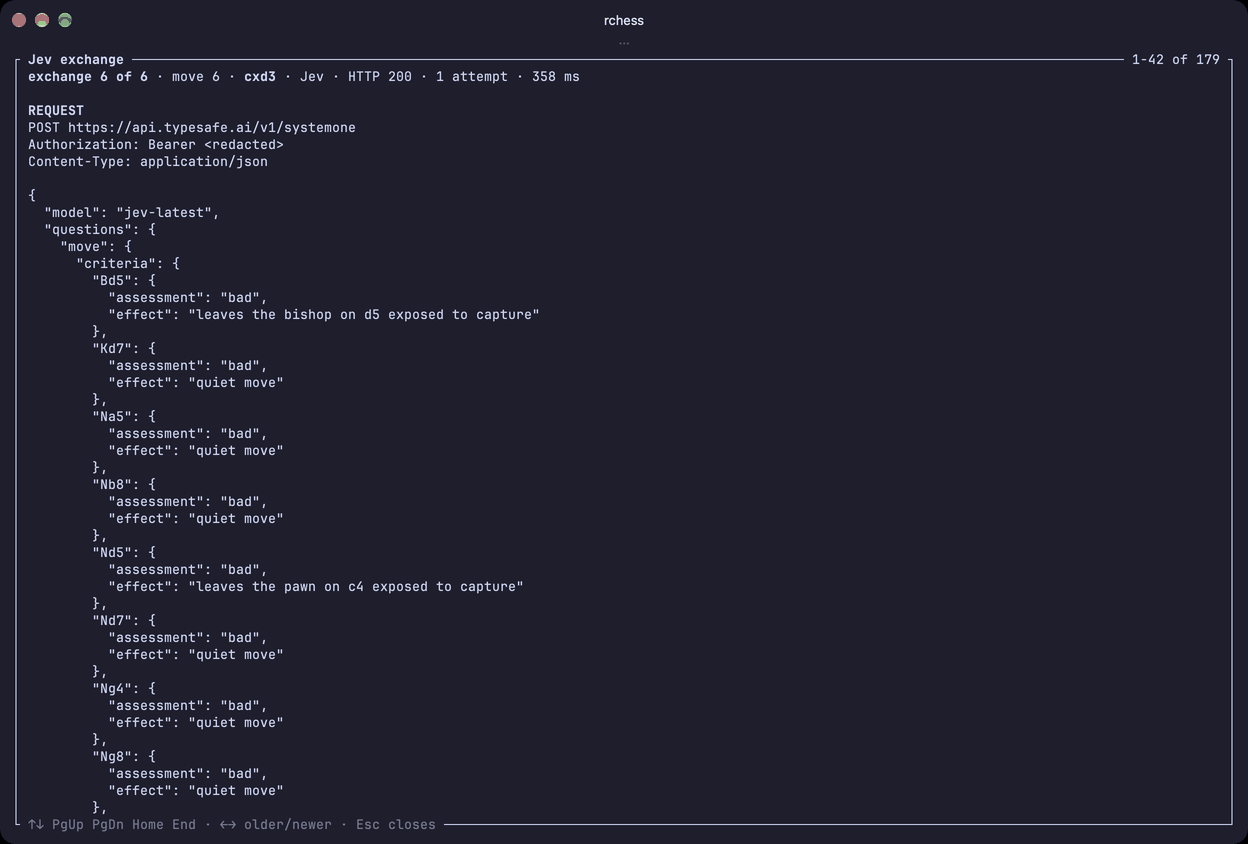
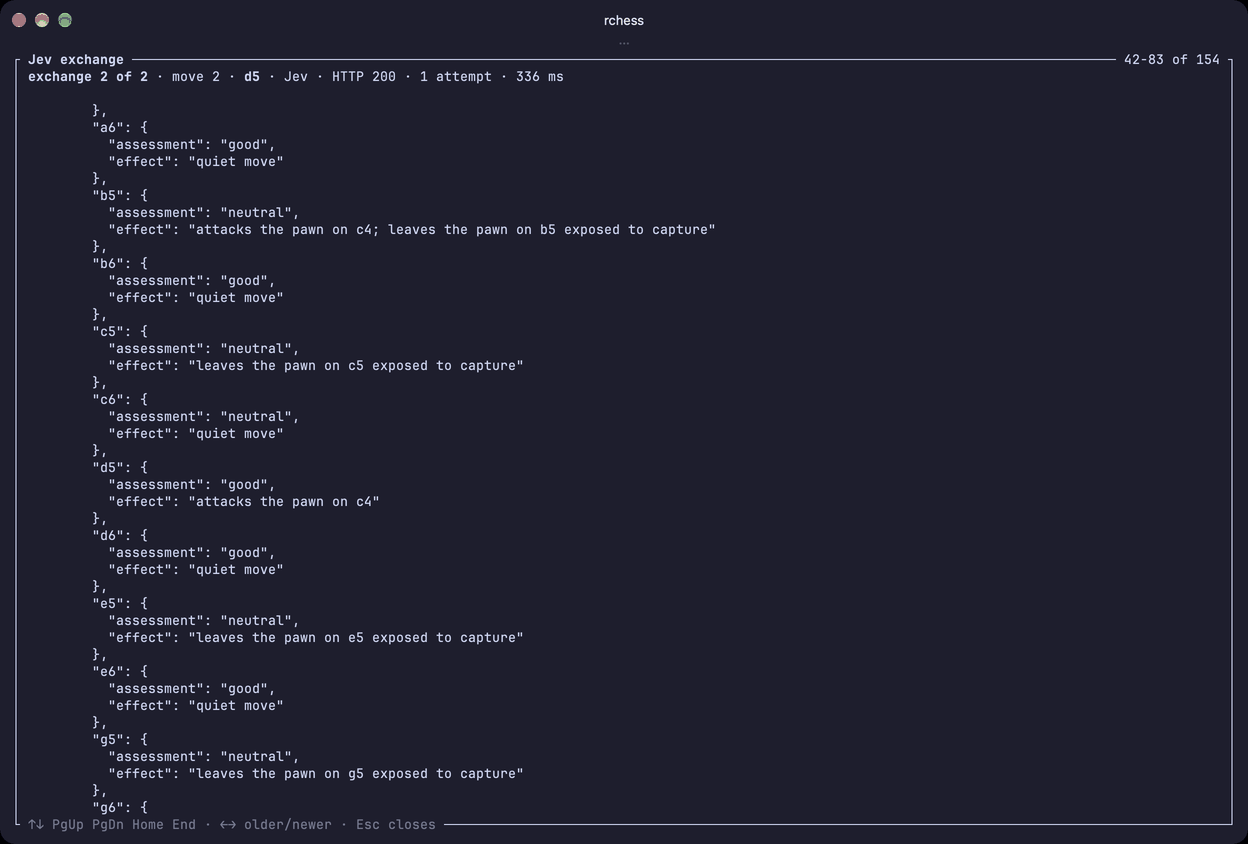
docs(readme): show a Jev request where the choice matters
Replace the cxd3 example, where the search had already decided, with the
position after 1. d4 Nf6 2. c4: twelve moves within 50 cp are all "good",
the local search alone would play Nc6, and Jev picks d5. Re-record the
board and exchange screenshots on that position, and explain when Jev's
answer changes the move and when it cannot.

diff --git a/README.md b/README.md
@@ -35,10 +35,10 @@ All captured from the release build running in Ghostty (150×44 cells).
 
 | | |
 | --- | --- |
-| ![Start menu with "Jev ready (jev-latest)"](docs/media/menu.png) | ![Board after 6. Bd3 cxd3: the Jev panel shows "played cxd3 · Jev", cxd3 100%, conf 0.99, 358 ms, jev-1.13.0](docs/media/play-vs-jev.png) |
-| **Menu.** The status line says whether Jev is ready or the computer will use local search. | **Human vs Jev.** The Jev panel shows where the move came from, Jev's top options with probabilities, confidence, latency and model. |
-| ![Debug exchange view: the request, with the Authorization header redacted and the move options with effect and assessment](docs/media/jev-request.png) | ![Debug exchange view: Jev's response with choice, confidence, a probability per option, model and token usage](docs/media/jev-response.png) |
-| **What Jev is asked** (`--debug`, then `d`). Every legal move comes with plain-language facts and an assessment. The API key is always shown as `<redacted>`. | **What Jev answers.** A choice, a probability for every option, a confidence and the input tokens billed. |
+| ![Start menu with "Jev ready (jev-latest)"](docs/media/menu.png) | ![Board after 1. d4 Nf6 2. c4 d5: the Jev panel shows "played d5 · Jev", d5 42%, Nc6 40%, e6 7%, conf 0.39, 336 ms, jev-1.13.0](docs/media/play-vs-jev.png) |
+| **Menu.** The status line says whether Jev is ready or the computer will use local search. | **Human vs Jev.** After `1. d4 Nf6 2. c4`, Jev chose `d5` over `Nc6` and `e6`. The Jev panel shows where the move came from, Jev's top options with probabilities, confidence, latency and model. |
+| ![Debug exchange view of that request: move options with effect and assessment, most of them good quiet moves](docs/media/jev-request.png) | ![Debug exchange view: Jev's response with choice, confidence, a probability per option, model and token usage](docs/media/jev-response.png) |
+| **What Jev is asked** (`--debug`, then `d`). Every shortlisted move comes with plain-language facts and an assessment; here twelve of them are `good`. The API key is always shown as `<redacted>`. | **What Jev answers.** A choice, a probability for every option, a confidence and the tokens billed. |
 
 **Jev vs Jev.** Watch mode plays both sides with a pause between moves (`+` and `-` change it,
 Space pauses). In this recording Jev settles into a knight-and-queen shuffle that ends in a
@@ -271,8 +271,25 @@ the move number, the phase (opening, middlegame, endgame), the material balance 
 we are in check, our pieces and theirs, the last six plies, and up to three of our pieces the
 opponent can win.
 
-This is the real request for Black's sixth move in the game from the screenshots, after
-`6. Bd3?` (26 options; most are cut here):
+### An example where Jev's choice matters
+
+After `1. d4 Nf6 2. c4`, Black has 22 legal moves. The search scores them like this (centipawns
+for Black, best first):
+
+| Score | Moves |
+| --- | --- |
+| +50 | `Nc6`, `d5` |
+| +40 | `d6`, `e6` |
+| +20 | `Rg8`, `a6`, `h6` |
+| +15 | `Na6`, `a5`, `h5` |
+| +5 | `b6`, `g6` |
+
+All twelve are within 50 cp of the best, so all twelve are `good`. A 3-ply search with a
+material and piece-square evaluation cannot really tell them apart: it rates `Rg8` and `h5`
+(moves no strong player would consider here) close to `d5` and `e6`, and it breaks the tie at
+the top by move-generation order. On its own, the local search would answer `Nc6`. This is the
+decision the app hands to Jev. The real request, from the game in the screenshots (`Nd5`, which
+loses the knight to `cxd5`, was rated `losing` and left off the shortlist):
 
 ```json
 {
@@ -285,31 +302,63 @@ This is the real request for Black's sixth move in the game from the screenshots
         "guidance": "Each option says what the move does and the engine's assessment: winning, good, neutral, bad or losing. Prefer winning and good moves. Among similar moves, prefer ones that remove threats against our pieces and keep our king safe."
       },
       "criteria": {
-        "Bd5":  { "assessment": "bad",     "effect": "leaves the bishop on d5 exposed to capture" },
-        "Nd5":  { "assessment": "bad",     "effect": "leaves the pawn on c4 exposed to capture" },
-        "Nxd4": { "assessment": "bad",     "effect": "captures the pawn on d4, loses material in the exchange" },
-        "cxd3": { "assessment": "winning", "effect": "captures the bishop on d3, wins material in the exchange" },
-        "g6":   { "assessment": "bad",     "effect": "quiet move" }
+        "Na6":  { "assessment": "good",     "effect": "quiet move" },
+        "Nc6":  { "assessment": "good",     "effect": "quiet move" },
+        "Ne4":  { "assessment": "neutral",  "effect": "quiet move" },
+        "Ng4":  { "assessment": "neutral",  "effect": "quiet move" },
+        "Ng8":  { "assessment": "neutral",  "effect": "quiet move" },
+        "Nh5":  { "assessment": "neutral",  "effect": "quiet move" },
+        "Rg8":  { "assessment": "good",     "effect": "quiet move" },
+        "a5":   { "assessment": "good",     "effect": "quiet move" },
+        "a6":   { "assessment": "good",     "effect": "quiet move" },
+        "b5":   { "assessment": "neutral",  "effect": "attacks the pawn on c4; leaves the pawn on b5 exposed to capture" },
+        "b6":   { "assessment": "good",     "effect": "quiet move" },
+        "c5":   { "assessment": "neutral",  "effect": "leaves the pawn on c5 exposed to capture" },
+        "c6":   { "assessment": "neutral",  "effect": "quiet move" },
+        "d5":   { "assessment": "good",     "effect": "attacks the pawn on c4" },
+        "d6":   { "assessment": "good",     "effect": "quiet move" },
+        "e5":   { "assessment": "neutral",  "effect": "leaves the pawn on e5 exposed to capture" },
+        "e6":   { "assessment": "good",     "effect": "quiet move" },
+        "g5":   { "assessment": "neutral",  "effect": "leaves the pawn on g5 exposed to capture" },
+        "g6":   { "assessment": "good",     "effect": "quiet move" },
+        "h5":   { "assessment": "good",     "effect": "quiet move" },
+        "h6":   { "assessment": "good",     "effect": "quiet move" }
       }
     }
   },
   "state": {
     "in_check": "no",
-    "material": "Black is ahead by about 1 pawn of material",
-    "move_number": 6,
-    "our_pieces": "King e8, Queen d8, Rooks a8 and h8, Bishops e6 and f8, Knights c6 and f6, Pawns c4 a7 b7 c7 e7 f7 g7 h7",
+    "material": "material is equal",
+    "move_number": 2,
+    "our_pieces": "King e8, Queen d8, Rooks a8 and h8, Bishops c8 and f8, Knights f6 and b8, Pawns a7 b7 c7 d7 e7 f7 g7 h7",
     "phase": "opening",
-    "recent_moves": "3... dxc4 4. Nf3 Nc6 5. e3 Be6 6. Bd3",
+    "recent_moves": "1. d4 Nf6 2. c4",
     "side_to_move": "Black",
-    "their_pieces": "King e1, Queen d1, Rooks a1 and h1, Bishops c1 and d3, Knights c3 and f3, Pawns a2 b2 f2 g2 h2 e3 d4",
+    "their_pieces": "King e1, Queen d1, Rooks a1 and h1, Bishops c1 and f1, Knights b1 and g1, Pawns a2 b2 e2 f2 g2 h2 c4 d4",
     "threats_against_us": []
   }
 }
 ```
 
-Jev answered `cxd3` with probability 1.0 and confidence 0.99 in 358 ms, billing 1,348 input
-tokens (the response screenshot above). Keys arrive in alphabetical order because `serde_json`
-sorts object keys; the shortlist order is not a signal Jev can see.
+Jev answered `d5` (probability 0.42), with `Nc6` at 0.40 and `e6` at 0.07. Every other option
+got 0.03 or less, and `Rg8`, `a5` and `h5` got 0.0. Confidence 0.39, 336 ms, 1,176 input tokens
+(the response screenshot above). `d5`, the Queen's Gambit, is the classical reply, and it is
+within the veto margin, so it is played. The probabilities move a little between calls: the
+same request a few minutes earlier gave `d5` 0.44 and `Nc6` 0.38.
+
+Keys arrive in alphabetical order because `serde_json` sorts object keys, so the search's
+ranking is not a signal Jev can see; it sees only the words.
+
+### When Jev's choice matters, and when it does not
+
+Jev changes the game only when **several options are close to the best**, as above. That is
+common in openings and quiet middlegames, where the evaluation's small differences are noise.
+When one move clearly stands out, for example a capture that wins a piece while every other
+option is `bad` (more than 150 cp behind), the search has already decided: any other pick would
+be vetoed. Jev is still asked in that case today; it agrees with a probability near 1.0, which
+costs a few hundred milliseconds and about 1.5k tokens without changing the move. Forced moves
+and mate in one already skip the call, and the same shortcut for "no other option within the
+veto margin" would be a natural next step.
 
 ### What comes back, and what the app does with it
 
@@ -338,10 +387,11 @@ particular except taste. So each side does what it is good at.
 
 - **Code owns legality.** Jev only ever chooses among keys the app generated, and the answer is
   checked against that list. An illegal or invented move is impossible by construction.
-- **Code owns tactics and numbers.** Asking a language model "is the bishop on d3 defended?"
-  is multi-hop reasoning over a board it cannot see. Static exchange evaluation answers it
-  exactly, so the fact arrives already worked out: *captures the bishop on d3, wins material in
-  the exchange*.
+- **Code owns tactics and numbers.** Asking a language model whether a pawn push can be won
+  is multi-hop reasoning over a board it cannot see: which pieces attack the square, which
+  defend it, in what order they trade. Static exchange evaluation answers it exactly, so the
+  fact arrives already worked out: `b5` *attacks the pawn on c4; leaves the pawn on b5 exposed
+  to capture*.
 - **Words, not numbers.** Centipawn scores would invite Jev to do arithmetic, which is exactly
   where it is weakest. Five buckets carry the engine's opinion without numbers, and the effect
   text says *why* a move is good or bad. The guidance then tells Jev how to weigh them: prefer

diff --git a/docs/handoff/HANDOFF.md b/docs/handoff/HANDOFF.md
@@ -148,6 +148,7 @@ Minor findings from the final review, deferred; none blocks the merge.
 - None.
 
 ## Log (newest first)
+- 2026-09-28 README example switched to a position where Jev's choice matters (after 1. d4 Nf6 2. c4: twelve good moves within 50 cp, the search would play Nc6, Jev picked d5); exchange screenshots re-recorded; README notes the possible "no other option within the veto margin" shortcut (not implemented)
 - 2026-09-28 README written on main (user request): architecture, when and how Jev is used, what is sent and why; screenshots (PNG) and low-res gameplay videos (MP4 plus animated WebP) recorded in Ghostty with the release build, stored in docs/media/
 - 2026-09-28 chore/cleanup merged into main locally (ab2383e); merged result verified: cargo test fully green (lib 689), fmt and clippy -D warnings clean, pty smoke green
 - 2026-09-28 cleanup final fix wave: CI matrix on Linux and macOS with an exact toolchain pin and a manual trigger (pty smoke local only), an error on a closed terminal ends by SIGHUP, no "+0 more warnings", HANDOFF follow-ups, CLAUDE.md fixes, stronger fallback and picture-cache tests
